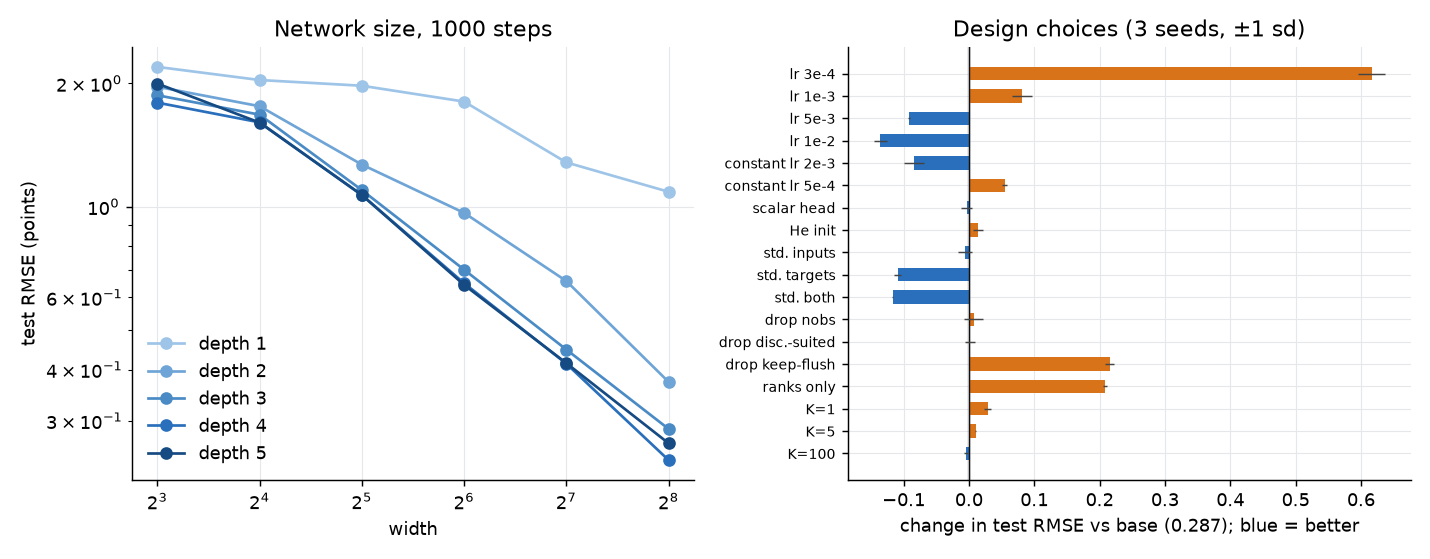
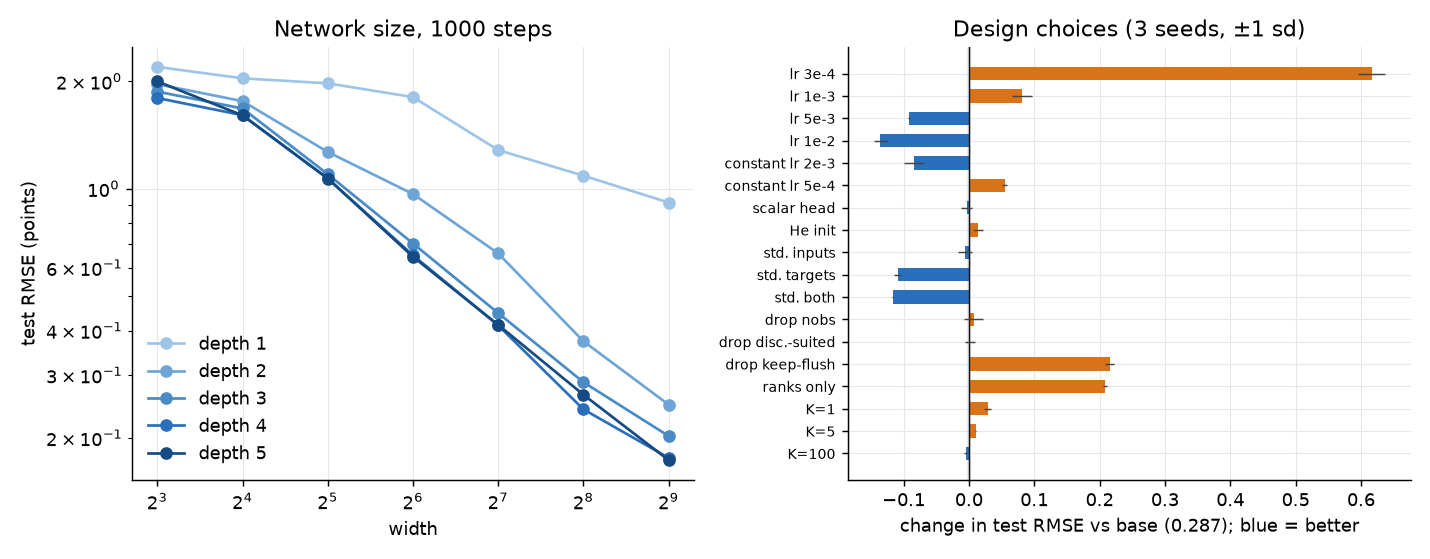
report more discard ablation

diff --git a/experiments/2026_discard_modelling.md b/experiments/2026_discard_modelling.md
@@ -372,19 +372,19 @@ sets were generated for the label-noise group.
 * After the report, the user asked how to add depth 4. One line was changed (`for depth in (1, 2, 3, 4)`)
   and the resumable command was given. **The depth-4 and depth-5 rows (36 more runs) are in the file on disk
   but the session does not show them being run**; I assume the user ran them after 16:38 UTC (the file was
-  last written at 19:06 local time) **(inferred)** and include them below.
+  last written at 19:06 local time) **(inferred)** and include them below. The width-512 column (15 runs, depth 1–5) was added to the file later still.
 
 ### 7.3 Results: network size
 
 Test RMSE in points (mean of 3 seeds, 1 000 steps):
 
-| depth \ width | 8 | 16 | 32 | 64 | 128 | 256 |
-|---|---|---|---|---|---|---|
-| 1 | 2.193 | 2.037 | 1.973 | 1.805 | 1.282 | 1.087 |
-| 2 | 1.962 | 1.758 | 1.267 | 0.965 | 0.658 | 0.373 |
-| 3 | 1.870 | 1.677 | 1.097 | 0.701 | 0.448 | **0.287** (base) |
-| 4 | 1.794 | 1.606 | 1.068 | 0.650 | 0.414 | 0.241 |
-| 5 | 1.997 | 1.604 | 1.067 | 0.644 | 0.415 | 0.264 |
+| depth \ width | 8 | 16 | 32 | 64 | 128 | 256 | 512 |
+|---|---|---|---|---|---|---|---|
+| 1 | 2.193 | 2.037 | 1.973 | 1.805 | 1.282 | 1.087 | 0.914 |
+| 2 | 1.962 | 1.758 | 1.267 | 0.965 | 0.658 | 0.373 | 0.248 |
+| 3 | 1.870 | 1.677 | 1.097 | 0.701 | 0.448 | 0.287 (base) | 0.203 |
+| 4 | 1.794 | 1.606 | 1.068 | 0.650 | 0.414 | 0.241 | 0.176 |
+| 5 | 1.997 | 1.604 | 1.067 | 0.644 | 0.415 | 0.264 | **0.173** |
 
 ![ablation](img/2026_ablation.png)
 
@@ -395,18 +395,30 @@ Selected parameter counts, RMSE ± sd, regret and optimal-choice rate:
 
 | Net | Parameters | Test RMSE | Regret | Optimal | Train time |
 |---|---|---|---|---|---|
-| 3 × 256 (base) | 139 778 | 0.287 ± 0.003 | 0.040 | 86.4 % | 326 s |
+| 5 × 512 | 1 067 010 | 0.173 ± 0.004 | 0.015 | 90.7 % | 1 550 s |
+| 4 × 512 | 804 354 | 0.176 ± 0.009 | 0.015 | 90.8 % | 1 377 s |
+| 3 × 512 | 541 698 | 0.203 ± 0.013 | 0.020 | 89.9 % | 978 s |
+| 2 × 512 | 279 042 | 0.248 ± 0.008 | 0.029 | 88.7 % | 604 s |
 | 4 × 256 | 205 570 | 0.241 ± 0.011 | 0.027 | 88.2 % | 319 s |
 | 5 × 256 | 271 362 | 0.264 ± 0.026 | 0.034 | 87.1 % | 503 s |
+| 3 × 256 (base) | 139 778 | 0.287 ± 0.003 | 0.040 | 86.4 % | 326 s |
 | 2 × 256 | 73 986 | 0.373 ± 0.009 | 0.068 | 83.5 % | 199 s |
 | 4 × 128 | 53 634 | 0.414 ± 0.011 | 0.078 | 81.4 % | 101 s |
 | 3 × 128 | 37 122 | 0.448 ± 0.026 | 0.094 | 80.0 % | 113 s |
 | 3 × 64 | 10 370 | 0.701 ± 0.012 | 0.224 | 71.8 % | 44 s |
-| 2 × 32 | 2 082 | 1.267 ± 0.116 | 0.746 | 52.8 % | 30 s |
 | 1 × 256 | 8 194 | 1.087 ± 0.004 | 0.521 | 60.6 % | 73 s |
+| 2 × 32 | 2 082 | 1.267 ± 0.116 | 0.746 | 52.8 % | 30 s |
 
 * **Depth helps more than width at equal parameter count** (3 × 64: 10 k parameters, RMSE 0.70; 1 × 256: 8 k
-  parameters, RMSE 1.09), but returns diminish: depth 3, 4 and 5 are within noise at widths ≤ 128.
+  parameters, RMSE 1.09), but returns diminish: depth 3, 4 and 5 are within noise at widths ≤ 128, and depth 4 and 5 at width 512.
+* **Width 512 keeps helping, with diminishing returns** (added later; 15 runs). At depth 3, going from 256 to
+  512 units (140 k → 542 k parameters) lowers the RMSE from 0.287 to 0.203 (regret 0.040 → 0.020), and depth
+  4 or 5 at width 512 reaches 0.173–0.176 (regret 0.015, 90.7–90.8 % optimal), which is about as good as the
+  best learning-rate change (lr 1e-2: 0.151) but costs 4–5× the training time (1 400–1 550 s vs. 326 s). Depth
+  5 is no better than depth 4 at this width (0.173 vs. 0.176, within noise). Even the widest net is at 0.17,
+  far above the 0.05 of the 10 000-step runs, so size is limited by the 1 000-step budget as much as by
+  capacity. Wider nets also reduce the gap between depths: at width 512 depth 1 is 0.91 but depth 2 already
+  0.25.
 * **No small net matches the base at 1 000 steps.** Roughly 37–74 k parameters are needed to come close
   (3 × 128: 0.45, 2 × 256: 0.37).
 * **Whether a small net would eventually match is open.** The small nets were still improving when
@@ -591,8 +603,8 @@ python -m cribbage.discard_study ablate-report
 
 (Subcommand names and flags are as used in the session; the module split on Oct 25 may have changed some
 options, check `--help`.) Datasets, models and ablation results are in `data/` (git-ignored): `data/runs/`
-has `two|scalar_k20|k100.{json,log,pt}`, and the ablation file has 159 rows, 41 variants × 3 seeds plus the
-extra depths. The label-disagreement script lived only in the session scratchpad and is not preserved.
+has `two|scalar_k20|k100.{json,log,pt}`, and the ablation file has 174 rows, 41 variants × 3 seeds plus the
+extra depths and the width-512 column. The label-disagreement script lived only in the session scratchpad and is not preserved.
 
 **Open items carried forward** (all from the chat): long runs of the small nets with the better settings;
 the combination of high learning rate, target standardisation and constant schedule; a variant of the
